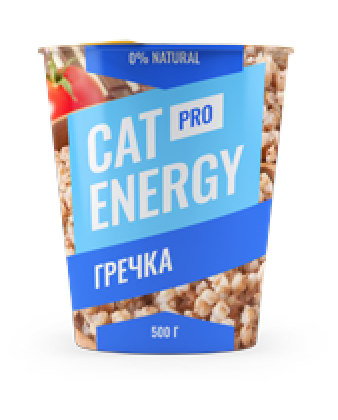
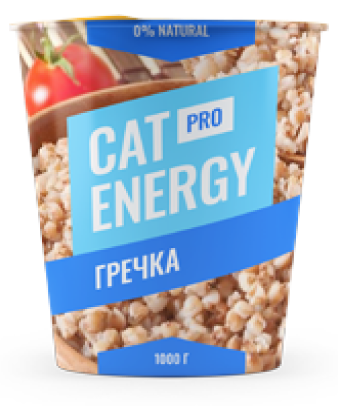
Deploying to gh-pages from @ Ruza777/2189251-cat-energy-2@d568672a14e08605ae601b80ea455e98d82f02fd 🚀

diff --git a/4/catalog.html b/4/catalog.html
@@ -1,1 +1,1 @@
-<!DOCTYPE html><html class="page" lang="ru"><head><meta charset="UTF-8"><title>Кэт энерджи</title><meta name="viewport" content="width=device-width,initial-scale=1"><link rel="stylesheet" href="styles/styles.css"><script src="scripts/index.js" defer="defer"></script></head><body class="page__body"><header class="main-header"><nav class="main-nav"><div class="container"><a class="main-nav__logo-icon main-nav__logo-icon--full" href="index.html"><img src="#" width="33" height="38" alt="логоиконка Кэт Энерджи"></a><a class="logo-text" href="index.html"><img src="#" width="3101" height="18" alt="лого-текст Кэт Энерджи"></a><ul class="main-nav__list"><li class="main-nav__item"><a class="main-nav__link main-nav__link--current" href="index.html">Главная</a></li><li class="main-nav__item"><a class="main-nav__link" href="catalog.html">Каталог продукции</a></li><li class="main-nav__item"><a class="main-nav__link" href="#">Подбор программы</a></li></ul><button class="main-nav__toggle" type="button"><span class="visually-hidden">Открыть меню</span></button></div></nav></header><main class="catalog"><h1 class="visually-hidden">Каталог</h1><section class="basic-catalog"><div class="container"><h2>Каталог продукции</h2><ul class="basic-catalog__list"><li class="basic-catalog__product-card"><a href="#"><img class="basic-catalog__product-picture" src="#" width="140" height="107" alt="Cat Energy PRO 500 г курица"></a><a href="#"><p class="basic-catalog__product-name">Cat Energy PRO<span class="basic-catalog__product-weight">500 г</span></p></a><dl class="basic-catalog__product-description"><dt class="basic-catalog__product-property">Масса</dt><dd class="basic-catalog__product-value">500 г</dd><dt class="basic-catalog__product-property">Вкус</dt><dd class="basic-catalog__product-value">Курица</dd><dt class="basic-catalog__product-property">Цена</dt><dd class="basic-catalog__product-value">700 &#8381;</dd></dl><a class="basic-catalog__product-button button" href="#">заказать</a></li><li class="basic-catalog__product-card"><a href="#"><img class="basic-catalog__product-picture" src="#" width="140" height="107" alt="Cat Energy PRO 1000г курица"></a><a href="#"><p class="basic-catalog__product-name">Cat Energy PRO<span class="basic-catalog__product-weight"></span></p></a><dl class="basic-catalog__product-description"><dt class="basic-catalog__product-property">Масса</dt><dd class="basic-catalog__product-value">1000 г</dd><dt class="basic-catalog__product-property">Вкус</dt><dd class="basic-catalog__product-value">Курица</dd><dt class="basic-catalog__product-property">Цена</dt><dd class="basic-catalog__product-value">1000 &#8381;</dd></dl><a class="basic-catalog__product-button button" href="#">заказать</a></li><li class="basic-catalog__product-card"><a href="#"><img class="basic-catalog__product-picture" src="#" width="140" height="107" alt="Cat Energy PRO 500г рыба"></a><a href="#"><p class="basic-catalog__product-name">Cat Energy PRO<span class="basic-catalog__product-weight"></span></p></a><dl class="basic-catalog__product-description"><dt class="basic-catalog__product-property">Масса</dt><dd class="basic-catalog__product-value">500г</dd><dt class="basic-catalog__product-property">Вкус</dt><dd class="basic-catalog__product-value">Рыба</dd><dt class="basic-catalog__product-property">Цена</dt><dd class="basic-catalog__product-value">700 &#8381;</dd></dl><a class="basic-catalog__product-button button" href="#">заказать</a></li><li class="basic-catalog__product-card"><a href="#"><img class="basic-catalog__product-picture" src="#" width="140" height="107" alt="Cat Energy PRO 1000 г рыба"></a><a href="#"><p class="basic-catalog__product-name">Cat Energy PRO<span class="basic-catalog__product-weight"></span></p></a><dl class="basic-catalog__product-description"><dt class="basic-catalog__product-property">Масса</dt><dd class="basic-catalog__product-value">1000 г</dd><dt class="basic-catalog__product-property">Вкус</dt><dd class="basic-catalog__product-value">Рыба</dd><dt class="basic-catalog__product-property">Цена</dt><dd class="basic-catalog__product-value">1000 &#8381;</dd></dl><a class="basic-catalog__product-button button" href="#">заказать</a></li><li class="basic-catalog__product-card"><a href="#"><img class="basic-catalog__product-picture" src="#" width="140" height="107" alt="Cat Energy SLIM  500 г гречка"></a><a href="#"><p class="basic-catalog__product-name">Cat Energy SLIM<span class="basic-catalog__product-weight"></span></p></a><dl class="basic-catalog__product-description"><dt class="basic-catalog__product-property">Масса</dt><dd class="basic-catalog__product-value">500г</dd><dt class="basic-catalog__product-property">Вкус</dt><dd class="basic-catalog__product-value">Гречка</dd><dt class="basic-catalog__product-property">Цена</dt><dd class="basic-catalog__product-value">400 &#8381;</dd></dl><a class="basic-catalog__product-button button" href="#">заказать</a></li><li class="basic-catalog__product-card"><a href="#"><img class="basic-catalog__product-picture" src="#" width="140" height="107" alt="Cat Energy SLIM 1000г гречка"></a><a href="#"><p class="basic-catalog__product-name">Cat Energy SLIM<span class="basic-catalog__product-weight"></span></p></a><dl class="basic-catalog__product-description"><dt class="basic-catalog__product-property">Масса</dt><dd class="basic-catalog__product-value">1000 г</dd><dt class="basic-catalog__product-property">Вкус</dt><dd class="basic-catalog__product-value">Гречка</dd><dt class="basic-catalog__product-property">Цена</dt><dd class="basic-catalog__product-value">700 &#8381;</dd></dl><a class="basic-catalog__product-button button" href="#">заказать</a></li><li class="basic-catalog__product-card"><a href="#"><img class="basic-catalog__product-picture" src="#" width="140" height="107" alt="Cat Energy SLIM 500г рис"></a><a href="#"><p class="basic-catalog__product-name">Cat Energy SLIM<span class="basic-catalog__product-weight"></span></p></a><dl class="basic-catalog__product-description"><dt class="basic-catalog__product-property">Масса</dt><dd class="basic-catalog__product-value">500 г</dd><dt class="basic-catalog__product-property">Вкус</dt><dd class="basic-catalog__product-value">Рис</dd><dt class="basic-catalog__product-property">Цена</dt><dd class="basic-catalog__product-value">500 &#8381;</dd></dl><a class="basic-catalog__product-button button" href="#">заказать</a><div class="basic-catalog__view-all"><p>Показать еще 100500 товаров</p><p>На самом деле вкусов гораздо больше!</p><a class="basic-catalog__view-all-button button" href="#">показать все</a></div></li></ul></div></section><section class="basic-catalog basic-catalog--additional-catalog"><div class="container"><h2>Дополнительные товары</h2><ul class="basic-catalog__list"><li class="basic-catalog__product-card basic-catalog__product-card--additional-product"><a href="#"><p class="basic-catalog__product-name">Сахарозаменитель</p></a><dl class="basic-catalog__product-description"><dt class="basic-catalog__product-property">1 упаковка (100 г)</dt><dd class="basic-catalog__product-value">200 &#8381;</dd></dl><a class="basic-catalog__product-button button" href="#">заказать</a></li><li class="basic-catalog__product-card basic-catalog__product-card--additional-product"><a href="#"><p class="basic-catalog__product-name">Питьевая вода</p></a><dl class="basic-catalog__product-description"><dt class="basic-catalog__product-property">5 литров</dt><dd class="basic-catalog__product-value">50 &#8381;</dd></dl><a class="basic-catalog__product-button button" href="#">заказать</a></li><li class="basic-catalog__product-card basic-catalog__product-card--additional-product"><a href="#"><p class="basic-catalog__product-name">Молоко</p></a><dl class="basic-catalog__product-description"><dt class="basic-catalog__product-property">1 литр</dt><dd class="basic-catalog__product-value">100 &#8381;</dd></dl><a class="basic-catalog__product-button button" href="#">заказать</a></li><li class="basic-catalog__product-card basic-catalog__product-card--additional-product"><a href="#"><p class="basic-catalog__product-name">Витамины</p></a><dl class="basic-catalog__product-description"><dt class="basic-catalog__product-property">1 упаковка (30 г)</dt><dd class="basic-catalog__product-value">300 &#8381;</dd></dl><a class="basic-catalog__product-button button" href="#">заказать</a></li></ul><div class="basic-catalog__gift">Закажите все и получите чехол для кота в подарок!</div></div></section><section class="newsletter"><h2 class="newsletter__title">Акции и новинки</h2><p class="newsletter__text">Подпишитесь на наши новости и не пропустите ни одного предложения!</p><form class="newsletter__form" action="https://echo.htmlacademy.ru/"><label class="visually-hidden"><span>e-mail покупателя</span> <input type="text" name="consumer-email" placeholder="кuklachev@gmail.com" required></label> <button class="newsletter__button button" type="submit">Подписаться</button></form></section></main><footer class="page-footer"><section class="map"><h2 class="visually-hidden">Карта</h2><div class="invite-to-cooperate"><h2 class="invite-to-cooperate__title">Приглашаем к сотрудничеству дилеров!</h2><p class="invite-to-cooperate__address">ул. Большая Конюшенная, д. 19/8 Санкт-Петербург</p></div><div class="map-picture"><img src="#" width="320" height="362" alt="Адрес на карте"> <img class="logo" src="#" width="57" height="53" alt="Логотип"></div></section><div class="container"><a class="page-footer__logo logo" href="#"><img src="#" width="128" height="24" alt="логотип"></a><ul class="social"><li class="social__item"><a class="social__link social__link--vkontakte" href="https://vk.com/htmlacademy">Мы в Вконтакте</a></li><li class="social__item"><a class="social__link social__link--facebook" href="https://www.facebook.com/htmlacademy">Мы в Фейсбуке</a></li><li class="social__item"><a class="social__link social__link--instagram" href="https://www.instagram.com/htmlacademy">Мы в Инстаграме</a></li></ul><a class="page-footer__copyright-link" href="https://htmlacademy.ru/intensive/adaptive"><div><img src="#" width="113" height="20" alt="HTML Academy link"> <img src="#" width="27" height="34" alt="HTML Academy logo"></div></a></div></footer></body></html>
+<!DOCTYPE html><html class="page" lang="ru"><head><meta charset="UTF-8"><title>Кэт энерджи</title><meta name="viewport" content="width=device-width,initial-scale=1"><link rel="stylesheet" href="styles/styles.css"><script src="scripts/index.js" defer="defer"></script></head><body class="page__body"><header class="main-header"><nav class="main-nav"><div class="container"><a class="main-nav__logo-icon main-nav__logo-icon--full" href="index.html"><img src="#" width="33" height="38" alt="логоиконка Кэт Энерджи"></a><a class="logo-text" href="index.html"><img src="#" width="3101" height="18" alt="лого-текст Кэт Энерджи"></a><ul class="main-nav__list"><li class="main-nav__item"><a class="main-nav__link main-nav__link--current" href="index.html">Главная</a></li><li class="main-nav__item"><a class="main-nav__link" href="catalog.html">Каталог продукции</a></li><li class="main-nav__item"><a class="main-nav__link" href="#">Подбор программы</a></li></ul><button class="main-nav__toggle" type="button"><span class="visually-hidden">Открыть меню</span></button></div></nav></header><main class="catalog"><h1 class="visually-hidden">Каталог</h1><section class="basic-catalog"><div class="container"><h2>Каталог продукции</h2><ul class="basic-catalog__list"><li class="basic-catalog__product-card"><a href="#"><picture><source width="169" height="210" type="image/png" media="(min-width: 1440px)" srcset="images/pro-500-chicken-desktop@1x.png, images/pro-500-chicken-desktop@2x.png 2x"><source width="200" height="210" type="image/png" media="(min-width: 768px)" srcset="images/pro-500-chicken-tablet@1x.png, images/pro-500-chicken-tablet@2x.png 2x"><img class="basic-catalog__product-picture" src="images/pro-500-chicken-mobile@1x.png" srcset="images/pro-500-chicken-mobile@2x.png 2x" width="140" height="107" alt="Cat Energy PRO 500 г курица"></picture></a><a href="#"><p class="basic-catalog__product-name">Cat Energy PRO<span class="basic-catalog__product-weight">500 г</span></p></a><dl class="basic-catalog__product-description"><dt class="basic-catalog__product-property">Масса</dt><dd class="basic-catalog__product-value">500 г</dd><dt class="basic-catalog__product-property">Вкус</dt><dd class="basic-catalog__product-value">Курица</dd><dt class="basic-catalog__product-property">Цена</dt><dd class="basic-catalog__product-value">700 &#8381;</dd></dl><a class="basic-catalog__product-button button" href="#">заказать</a></li><li class="basic-catalog__product-card"><a href="#"><picture><source width="169" height="210" type="image/png" media="(min-width: 1440px)" srcset="images/pro-1000-chicken-desktop@1x.png, images/pro-1000-chicken-desktop@2x.png 2x"><source width="200" height="210" type="image/png" media="(min-width: 768px)" srcset="images/pro-1000-chicken-tablet@1x.png, images/pro-1000-chicken-tablet@2x.png 2x"><img class="basic-catalog__product-picture" src="images/pro-1000-chicken-mobile@1x.png" srcset="images/pro-1000-chicken-mobile@2x.png 2x" width="140" height="107" alt="Cat Energy PRO 1000г курица"></picture></a><a href="#"><p class="basic-catalog__product-name">Cat Energy PRO 1000 г<span class="basic-catalog__product-weight"></span></p></a><dl class="basic-catalog__product-description"><dt class="basic-catalog__product-property">Масса</dt><dd class="basic-catalog__product-value">1000 г</dd><dt class="basic-catalog__product-property">Вкус</dt><dd class="basic-catalog__product-value">Курица</dd><dt class="basic-catalog__product-property">Цена</dt><dd class="basic-catalog__product-value">1000 &#8381;</dd></dl><a class="basic-catalog__product-button button" href="#">заказать</a></li><li class="basic-catalog__product-card"><a href="#"><picture><source width="169" height="210" type="image/png" media="(min-width: 1440px)" srcset="images/pro-500-fish-desktop@1x.png, images/pro-500-fish-desktop@2x.png 2x"><source width="200" height="210" type="image/png" media="(min-width: 768px)" srcset="images/pro-500-fish-tablet@1x.png, images/pro-500-fish-tablet@2x.png 2x"><img class="basic-catalog__product-picture" src="images/pro-500-fish-mobile@1x.png" srcset="images/pro-500-fish-mobile@2x.png 2x" width="140" height="107" alt="Cat Energy PRO 500г рыба"></picture></a><a href="#"><p class="basic-catalog__product-name">Cat Energy PRO<span class="basic-catalog__product-weight"></span></p></a><dl class="basic-catalog__product-description"><dt class="basic-catalog__product-property">Масса</dt><dd class="basic-catalog__product-value">500г</dd><dt class="basic-catalog__product-property">Вкус</dt><dd class="basic-catalog__product-value">Рыба</dd><dt class="basic-catalog__product-property">Цена</dt><dd class="basic-catalog__product-value">700 &#8381;</dd></dl><a class="basic-catalog__product-button button" href="#">заказать</a></li><li class="basic-catalog__product-card"><a href="#"><picture><source width="169" height="210" type="image/png" media="(min-width: 1440px)" srcset="images/pro-1000-fish-desktop@1x.png, images/pro-1000-fish-desktop@2x.png 2x"><source width="200" height="210" type="image/png" media="(min-width: 768px)" srcset="images/pro-1000-fish-tablet@1x.png, images/pro-1000-fish-tablet@2x.png 2x"><img class="basic-catalog__product-picture" src="images/pro-1000-fish-mobile@1x.png" srcset="images/pro-1000-fish-mobile@2x.png 2x" width="140" height="107" alt="Cat Energy PRO 1000 г рыба"></picture></a><a href="#"><p class="basic-catalog__product-name">Cat Energy PRO<span class="basic-catalog__product-weight"></span></p></a><dl class="basic-catalog__product-description"><dt class="basic-catalog__product-property">Масса</dt><dd class="basic-catalog__product-value">1000 г</dd><dt class="basic-catalog__product-property">Вкус</dt><dd class="basic-catalog__product-value">Рыба</dd><dt class="basic-catalog__product-property">Цена</dt><dd class="basic-catalog__product-value">1000 &#8381;</dd></dl><a class="basic-catalog__product-button button" href="#">заказать</a></li><li class="basic-catalog__product-card"><a href="#"><picture><source width="169" height="210" type="image/png" media="(min-width: 1440px)" srcset="images/slim-500-buckwheat-desktop@1x.png, images/slim-500-buckwheat-desktop@2x.png 2x"><source width="200" height="210" type="image/png" media="(min-width: 768px)" srcset="images/slim-500-buckwheat-tablet@1x.png, images/slim-500-buckwheat-tablet@2x.png 2x"><img class="basic-catalog__product-picture" src="images/slim-500-buckwheat-mobile@1x.png" srcset="images/slim-500-buckwheat-mobile@2x.png 2x" width="140" height="107" alt="Cat Energy SLIM  500 г гречка"></picture></a><a href="#"><p class="basic-catalog__product-name">Cat Energy SLIM<span class="basic-catalog__product-weight"></span></p></a><dl class="basic-catalog__product-description"><dt class="basic-catalog__product-property">Масса</dt><dd class="basic-catalog__product-value">500г</dd><dt class="basic-catalog__product-property">Вкус</dt><dd class="basic-catalog__product-value">Гречка</dd><dt class="basic-catalog__product-property">Цена</dt><dd class="basic-catalog__product-value">400 &#8381;</dd></dl><a class="basic-catalog__product-button button" href="#">заказать</a></li><li class="basic-catalog__product-card"><a href="#"><picture><source width="169" height="210" type="image/png" media="(min-width: 1440px)" srcset="images/slim-1000-buckwheat-desktop@1x.png, images/slim-1000-buckwheat-desktop@2x.png 2x"><source width="200" height="210" type="image/png" media="(min-width: 768px)" srcset="images/slim-1000-buckwheat-tablet@1x.png, images/slim-1000-buckwheat-tablet@2x.png 2x"><img class="basic-catalog__product-picture" src="images/slim-1000-buckwheat-mobile@1x.png" srcset="images/slim-1000-buckwheat-mobile@2x.png 2x" width="140" height="107" alt="Cat Energy SLIM 1000г гречка"></picture></a><a href="#"><p class="basic-catalog__product-name">Cat Energy SLIM<span class="basic-catalog__product-weight"></span></p></a><dl class="basic-catalog__product-description"><dt class="basic-catalog__product-property">Масса</dt><dd class="basic-catalog__product-value">1000 г</dd><dt class="basic-catalog__product-property">Вкус</dt><dd class="basic-catalog__product-value">Гречка</dd><dt class="basic-catalog__product-property">Цена</dt><dd class="basic-catalog__product-value">700 &#8381;</dd></dl><a class="basic-catalog__product-button button" href="#">заказать</a></li><li class="basic-catalog__product-card"><a href="#"><picture><source width="169" height="210" type="image/png" media="(min-width: 1440px)" srcset="images/slim-500-rice-desktop@1x.png, images/slim-500-rice-desktop@2x.png 2x"><source width="200" height="210" type="image/png" media="(min-width: 768px)" srcset="images/slim-500-rice-tablet@1x.png, images/slim-500-rice-tablet@2x.png 2x"><img class="basic-catalog__product-picture" src="images/slim-500-rice-mobile@1x.png" srcset="images/slim-500-rice-mobile@2x.png 2x" width="140" height="107" alt="Cat Energy SLIM 500г рис"></picture></a><a href="#"><p class="basic-catalog__product-name">Cat Energy SLIM<span class="basic-catalog__product-weight"></span></p></a><dl class="basic-catalog__product-description"><dt class="basic-catalog__product-property">Масса</dt><dd class="basic-catalog__product-value">500 г</dd><dt class="basic-catalog__product-property">Вкус</dt><dd class="basic-catalog__product-value">Рис</dd><dt class="basic-catalog__product-property">Цена</dt><dd class="basic-catalog__product-value">500 &#8381;</dd></dl><a class="basic-catalog__product-button button" href="#">заказать</a><div class="basic-catalog__view-all"><p>Показать еще 100500 товаров</p><p>На самом деле вкусов гораздо больше!</p><a class="basic-catalog__view-all-button button" href="#">показать все</a></div></li></ul></div></section><section class="basic-catalog basic-catalog--additional-catalog"><div class="container"><h2>Дополнительные товары</h2><ul class="basic-catalog__list"><li class="basic-catalog__product-card basic-catalog__product-card--additional-product"><a href="#"><p class="basic-catalog__product-name">Сахарозаменитель</p></a><dl class="basic-catalog__product-description"><dt class="basic-catalog__product-property">1 упаковка (100 г)</dt><dd class="basic-catalog__product-value">200 &#8381;</dd></dl><a class="basic-catalog__product-button button" href="#">заказать</a></li><li class="basic-catalog__product-card basic-catalog__product-card--additional-product"><a href="#"><p class="basic-catalog__product-name">Питьевая вода</p></a><dl class="basic-catalog__product-description"><dt class="basic-catalog__product-property">5 литров</dt><dd class="basic-catalog__product-value">50 &#8381;</dd></dl><a class="basic-catalog__product-button button" href="#">заказать</a></li><li class="basic-catalog__product-card basic-catalog__product-card--additional-product"><a href="#"><p class="basic-catalog__product-name">Молоко</p></a><dl class="basic-catalog__product-description"><dt class="basic-catalog__product-property">1 литр</dt><dd class="basic-catalog__product-value">100 &#8381;</dd></dl><a class="basic-catalog__product-button button" href="#">заказать</a></li><li class="basic-catalog__product-card basic-catalog__product-card--additional-product"><a href="#"><p class="basic-catalog__product-name">Витамины</p></a><dl class="basic-catalog__product-description"><dt class="basic-catalog__product-property">1 упаковка (30 г)</dt><dd class="basic-catalog__product-value">300 &#8381;</dd></dl><a class="basic-catalog__product-button button" href="#">заказать</a></li></ul><div class="basic-catalog__gift">Закажите все и получите чехол для кота в подарок!</div></div></section><section class="newsletter"><h2 class="newsletter__title">Акции и новинки</h2><p class="newsletter__text">Подпишитесь на наши новости и не пропустите ни одного предложения!</p><form class="newsletter__form" action="https://echo.htmlacademy.ru/"><label class="visually-hidden"><span>e-mail покупателя</span> <input type="text" name="consumer-email" placeholder="кuklachev@gmail.com" required></label> <button class="newsletter__button button" type="submit">Подписаться</button></form></section></main><footer class="page-footer"><section class="map"><h2 class="visually-hidden">Карта</h2><div class="invite-to-cooperate"><h2 class="invite-to-cooperate__title">Приглашаем к сотрудничеству дилеров!</h2><p class="invite-to-cooperate__address">ул. Большая Конюшенная, д. 19/8 Санкт-Петербург</p></div><div class="map-picture"><picture><source width="1440" height="400" type="image/png" media="(min-width: 1440px)" srcset="images/map-desktop@1x.png, images/map-desktop@2x.png 2x"><source width="768" height="400" type="image/png" media="(min-width: 768px)" srcset="images/map-tablet@1x.png, images/map-tablet@2x.png 2x"><img src="images/map-mobile@1x.jpg" srcset="images/map-mobile@2x.jpg 2x" width="320" height="362" alt="Адрес на карте"></picture><img class="logo" src="#" width="57" height="53" alt="Логотип"></div></section><div class="container"><a class="page-footer__logo logo" href="#"><img src="#" width="128" height="24" alt="логотип"></a><ul class="social"><li class="social__item"><a class="social__link social__link--vkontakte" href="https://vk.com/htmlacademy">Мы в Вконтакте</a></li><li class="social__item"><a class="social__link social__link--facebook" href="https://www.facebook.com/htmlacademy">Мы в Фейсбуке</a></li><li class="social__item"><a class="social__link social__link--instagram" href="https://www.instagram.com/htmlacademy">Мы в Инстаграме</a></li></ul><a class="page-footer__copyright-link" href="https://htmlacademy.ru/intensive/adaptive"><div><img src="#" width="113" height="20" alt="HTML Academy link"> <img src="#" width="27" height="34" alt="HTML Academy logo"></div></a></div></footer></body></html>

diff --git a/4/index.html b/4/index.html
@@ -1,1 +1,1 @@
-<!DOCTYPE html><html class="page" lang="ru"><head><meta charset="UTF-8"><title>Кэт энерджи</title><meta name="viewport" content="width=device-width,initial-scale=1"><link rel="stylesheet" href="styles/styles.css"><script src="scripts/index.js" defer="defer"></script></head><body class="page__body"><header class="main-header"><nav class="main-nav"><div class="container"><a class="logo logo--nav" href="#"><img src="#" width="33" height="38" alt="Кэт Энерджи"></a><ul class="main-nav__list"><li class="main-nav__item"><a class="main-nav__link main-nav__link--current" href="index.html">Главная</a></li><li class="main-nav__item"><a class="main-nav__link" href="catalog.html">Каталог продукции</a></li><li class="main-nav__item"><a class="main-nav__link" href="#">Подбор программы</a></li></ul><button class="main-nav__toggle" type="button"><span class="visually-hidden">Открыть меню</span></button></div></nav></header><main class="page-main"><h1 class="visually-hidden">Пищевая продукция для кошек "Кэт Энерджи"</h1><section class="food-program"><div class="container"><h2 class="food-program__title">Функциональное питание для котов</h2><img class="food-program__picture" src="#" width="280" height="270" alt="Упаковка кошачей еды Кэт Энерджи"><p class="food-program__text">Занялся собой? Займись котом!</p><a class="button food-program__button" href="#">Подобрать программу</a><ol class="food-program__list"><li class="food-program__type"><h2 class="food-program__title food-program__title--slim">Похудение</h2><p class="food-program__text">Ваш кот весит больше собаки и почти утратил способность лазить по деревьям? Пора на диету! Cat Energy Slim поможет вашему питомцу сбросить лишний вес.</p><a class="food-program__link" href="#">Каталог slim</a></li><li class="food-program__type"><h2 class="food-program__title food-program__title--gain-weight">Набор массы</h2><p class="food-program__text">Заработать авторитет среди дворовых котов и даже собак? Серия Cat Energy Pro поможет вашему коту нарастить необходимые мышцы!</p><a class="food-program__link" href="#">Каталог pro</a></li></ol><div class="program-description"><h2 class="program-description__title">Как это работает</h2><ul class="program-description__list"><li class="program-description__item program-description__item--useful">Функциональное питание содержит только полезные питательные вещества.</li><li class="program-description__item program-description__item--powder">Выпускается в виде порошка, который нужно лишь залить кипятком и готово.</li><li class="program-description__item program-description__item--food">Замените один-два приема обычной еды на наше функциональное питание.</li><li class="program-description__item program-description__item--time">Уже через месяц наслаждайтесь изменениями к лучшему вашего питомца!</li></ul></div></div></section><section class="example"><div class="container"><h2 class="example__title">Живой пример</h2><p class="example__text">Борис сбросил 5 кг за 2 месяца, просто заменив свой обычный корм на Cat Energy Slim. Отличный результат без изнуряющих тренировок! При этом он не менял своих привычек и по-прежнему спит по 16 часов в день.</p><dl class="example__list"><dt class="example__list-data">5 КГ</dt><dd class="example__list-data-description">снижение веса</dd><dt class="example__list-data">60 ДНЕЙ</dt><dd class="example__list-data-description">затрачено времени</dd></dl><p class="example__item-expenses">Затраты на питание: 15 000 РУБ.</p><div class="example__slider slider"></div></div></section></main><footer class="page-footer"><section class="map"><h2 class="visually-hidden">Карта</h2><div class="invite-to-cooperate"><h2 class="invite-to-cooperate__title">Приглашаем к сотрудничеству дилеров!</h2><p class="invite-to-cooperate__address">ул. Большая Конюшенная, д. 19/8 Санкт-Петербург</p></div><div class="map-picture"><img src="#" width="320" height="362" alt="Адрес на карте"> <img class="logo" src="#" width="57" height="53" alt="Логотип"></div></section><div class="container"><a class="page-footer__logo logo" href="#"><img src="#" width="128" height="24" alt="логотип"></a><ul class="social"><li class="social__item"><a class="social__link social__link--vkontakte" href="https://vk.com/htmlacademy">Мы в Вконтакте</a></li><li class="social__item"><a class="social__link social__link--facebook" href="https://www.facebook.com/htmlacademy">Мы в Фейсбуке</a></li><li class="social__item"><a class="social__link social__link--instagram" href="https://www.instagram.com/htmlacademy">Мы в Инстаграме</a></li></ul><a class="page-footer__copyright-link" href="https://htmlacademy.ru/intensive/adaptive"><div><img src="#" width="113" height="20" alt="HTML Academy link"> <img src="#" width="27" height="34" alt="HTML Academy logo"></div></a></div></footer></body></html>
+<!DOCTYPE html><html class="page" lang="ru"><head><meta charset="UTF-8"><title>Кэт энерджи</title><meta name="viewport" content="width=device-width,initial-scale=1"><link rel="stylesheet" href="styles/styles.css"><script src="scripts/index.js" defer="defer"></script></head><body class="page__body"><header class="main-header"><nav class="main-nav"><div class="container"><a class="logo logo--nav" href="#"><img src="#" width="33" height="38" alt="Кэт Энерджи"></a><ul class="main-nav__list"><li class="main-nav__item"><a class="main-nav__link main-nav__link--current" href="index.html">Главная</a></li><li class="main-nav__item"><a class="main-nav__link" href="catalog.html">Каталог продукции</a></li><li class="main-nav__item"><a class="main-nav__link" href="#">Подбор программы</a></li></ul><button class="main-nav__toggle" type="button"><span class="visually-hidden">Открыть меню</span></button></div></nav></header><main class="page-main"><h1 class="visually-hidden">Пищевая продукция для кошек "Кэт Энерджи"</h1><section class="food-program"><div class="container"><h2 class="food-program__title">Функциональное питание для котов</h2><picture><source width="552" height="499" type="image/png" media="(min-width: 1440px)" srcset="images/index-banner@1x.png, images/index-banner@2x.png 2x"><source width="709" height="609" type="image/png" media="(min-width: 768px)" srcset="images/index-banner-tablet@1x.png, images/index-banner-tablet@2x.png 2x"><img class="food-program__picture" src="images/index-banner-mobile@1x.png" srcset="images/index-banner-mobile@2x.png" width="280" height="270" alt="Упаковка кошачей еды Кэт Энерджи"></picture><p class="food-program__text">Занялся собой? Займись котом!</p><a class="button food-program__button" href="#">Подобрать программу</a><ol class="food-program__list"><li class="food-program__type"><h2 class="food-program__title food-program__title--slim">Похудение</h2><p class="food-program__text">Ваш кот весит больше собаки и почти утратил способность лазить по деревьям? Пора на диету! Cat Energy Slim поможет вашему питомцу сбросить лишний вес.</p><a class="food-program__link" href="#">Каталог slim</a></li><li class="food-program__type"><h2 class="food-program__title food-program__title--gain-weight">Набор массы</h2><p class="food-program__text">Заработать авторитет среди дворовых котов и даже собак? Серия Cat Energy Pro поможет вашему коту нарастить необходимые мышцы!</p><a class="food-program__link" href="#">Каталог pro</a></li></ol><div class="program-description"><h2 class="program-description__title">Как это работает</h2><ul class="program-description__list"><li class="program-description__item program-description__item--useful">Функциональное питание содержит только полезные питательные вещества.</li><li class="program-description__item program-description__item--powder">Выпускается в виде порошка, который нужно лишь залить кипятком и готово.</li><li class="program-description__item program-description__item--food">Замените один-два приема обычной еды на наше функциональное питание.</li><li class="program-description__item program-description__item--time">Уже через месяц наслаждайтесь изменениями к лучшему вашего питомца!</li></ul></div></div></section><section class="example"><div class="container"><h2 class="example__title">Живой пример</h2><p class="example__text">Борис сбросил 5 кг за 2 месяца, просто заменив свой обычный корм на Cat Energy Slim. Отличный результат без изнуряющих тренировок! При этом он не менял своих привычек и по-прежнему спит по 16 часов в день.</p><dl class="example__list"><dt class="example__list-data">5 КГ</dt><dd class="example__list-data-description">снижение веса</dd><dt class="example__list-data">60 ДНЕЙ</dt><dd class="example__list-data-description">затрачено времени</dd></dl><p class="example__item-expenses">Затраты на питание: 15 000 РУБ.</p><div class="example__slider slider"></div></div></section></main><footer class="page-footer"><section class="map"><h2 class="visually-hidden">Карта</h2><div class="invite-to-cooperate"><h2 class="invite-to-cooperate__title">Приглашаем к сотрудничеству дилеров!</h2><p class="invite-to-cooperate__address">ул. Большая Конюшенная, д. 19/8 Санкт-Петербург</p></div><div class="map-picture"><picture><source width="1440" height="400" type="image/png" media="(min-width: 1440px)" srcset="images/map-desktop@1x.png, images/map-desktop@2x.png 2x"><source width="768" height="400" type="image/png" media="(min-width: 768px)" srcset="images/map-tablet@1x.png, images/map-tablet@2x.png 2x"><img src="images/map-mobile@1x.jpg" srcset="images/map-mobile@2x.jpg 2x" width="320" height="362" alt="Адрес на карте"></picture><img class="logo" src="#" width="57" height="53" alt="Логотип"></div></section><div class="container"><a class="page-footer__logo logo" href="#"><img src="#" width="128" height="24" alt="логотип"></a><ul class="social"><li class="social__item"><a class="social__link social__link--vkontakte" href="https://vk.com/htmlacademy">Мы в Вконтакте</a></li><li class="social__item"><a class="social__link social__link--facebook" href="https://www.facebook.com/htmlacademy">Мы в Фейсбуке</a></li><li class="social__item"><a class="social__link social__link--instagram" href="https://www.instagram.com/htmlacademy">Мы в Инстаграме</a></li></ul><a class="page-footer__copyright-link" href="https://htmlacademy.ru/intensive/adaptive"><div><img src="#" width="113" height="20" alt="HTML Academy link"> <img src="#" width="27" height="34" alt="HTML Academy logo"></div></a></div></footer></body></html>
